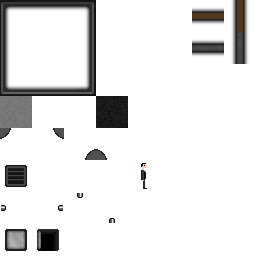
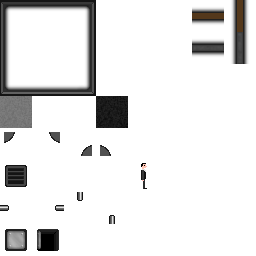
auto doors, entities moving around, entity texture is borked

diff --git a/LD25/src/com/mutantamoeba/ld25/screens/GameScreen.java b/LD25/src/com/mutantamoeba/ld25/screens/GameScreen.java
@@ -8,7 +8,7 @@ import com.badlogic.gdx.graphics.OrthographicCamera;
 import com.badlogic.gdx.graphics.Texture;
 import com.badlogic.gdx.graphics.Texture.TextureFilter;
 import com.badlogic.gdx.graphics.Texture.TextureWrap;
-import com.badlogic.gdx.graphics.g2d.SpriteBatch;
+import com.badlogic.gdx.graphics.g2d.TextureRegion;
 import com.badlogic.gdx.math.Vector2;
 import com.badlogic.gdx.scenes.scene2d.Actor;
 import com.badlogic.gdx.scenes.scene2d.InputEvent;
@@ -19,7 +19,7 @@ import com.mutantamoeba.ld25.GameWorld;
 import com.mutantamoeba.ld25.RoomRenderer;
 import com.mutantamoeba.ld25.actors.EntityGroup;
 import com.mutantamoeba.ld25.actors.FpsCounter;
-import com.mutantamoeba.ld25.engine.Console;
+import com.mutantamoeba.ld25.actors.GameEntity;
 import com.mutantamoeba.ld25.tilemap.GameTileset;
 import com.mutantamoeba.ld25.tilemap.TileRenderer;
 import com.mutantamoeba.ld25.tilemap.TileSubset;
@@ -31,7 +31,7 @@ public class GameScreen extends BasicScreen {
 	static final float SCROLL_SPEED = 200f; // pixels per second
 	static final float SCROLL_FAST_MULTIPLIER = 3f; // how much faster than SCROLL_SPEED do we go in fast mode?
 	
-	Texture texture;
+	public Texture texture;
 	boolean showFPS = true;
 	Stage uiStage;
 	GameWorld world;
@@ -72,13 +72,18 @@ public class GameScreen extends BasicScreen {
 			 */
 			@Override
 			public void clicked(InputEvent event, float x, float y) {				
-				x /= TILE_SIZE * GameWorld.ROOM_SIZE;
-				y /= TILE_SIZE * GameWorld.ROOM_SIZE;
+				float rx = x / (TILE_SIZE * GameWorld.ROOM_SIZE);
+				float ry = y / (TILE_SIZE * GameWorld.ROOM_SIZE);
 //				Console.debug("roomRenderer touched at %f, %f", x, y);
 
 //				world.roomMap.makeBlankRoom((int)x, (int)y);
-				world.roomMap.makeTemplatedRoom((int)x, (int)y);				
-				tileRenderer.updateFromMap();
+				if (world.roomMap.get((int)rx, (int)ry) == null) {
+					world.roomMap.makeTemplatedRoom((int)rx, (int)ry);				
+					tileRenderer.updateFromMap();
+				} else {
+					spawnActor(x, y);
+				}
+				
 				super.clicked(event, x, y);
 			}			
 		});
@@ -100,25 +105,25 @@ public class GameScreen extends BasicScreen {
 		});
 		stage.addActor(roomRenderer);
 		
-		this.entities = new EntityGroup();
+		this.entities = new EntityGroup(world);
+//		this.entities.set
+		
 		stage.addActor(this.entities);
-		this.entities.addActor(new Actor() {
-
-			/* (non-Javadoc)
-			 * @see com.badlogic.gdx.scenes.scene2d.Actor#draw(com.badlogic.gdx.graphics.g2d.SpriteBatch, float)
-			 */
-			@Override
-			public void draw(SpriteBatch batch, float parentAlpha) {
-				batch.draw(texture, getX(), getY(), 64, 64, 16, 16, 32, 32, false, false);
-//				super.draw(batch, parentAlpha);
-			}
-			
-		});
+		spawnActor(100, 100);
 
 		OrthographicCamera cam = (OrthographicCamera)stage.getCamera();
 		cam.translate(stage.getWidth() / 2, stage.getHeight() / 2);
+		
 	}
-
+	public void spawnActor(float x, float y) {
+		// [@temp just adds an entity for now]
+		TextureRegion region = new TextureRegion(texture, 0, 0, 32, 32);
+		Actor actor = new GameEntity(region);	
+		actor.setBounds(x, y, 32, 32);
+		actor.setOrigin(16, 16);
+		entities.addActor(actor);		
+	}
+	
 	/* (non-Javadoc)
 	 * @see com.mutantamoeba.ld25.screens.BasicScreen#render(float)
 	 */
@@ -128,7 +133,7 @@ public class GameScreen extends BasicScreen {
 		Gdx.gl.glClear(GL10.GL_COLOR_BUFFER_BIT);
 		
 		update(delta);
-		
+				
 		stage.draw();			
 		uiStage.draw();		
 	}

diff --git a/LD25/src/com/mutantamoeba/ld25/RoomMap.java b/LD25/src/com/mutantamoeba/ld25/RoomMap.java
@@ -1,5 +1,6 @@
 package com.mutantamoeba.ld25;
 
+import com.mutantamoeba.ld25.engine.Console;
 import com.mutantamoeba.ld25.tilemap.Tile;
 import com.mutantamoeba.ld25.utils.ParameterMap;
 import com.mutantamoeba.ld25.utils.RandomNumbers;
@@ -86,8 +87,8 @@ public class RoomMap extends ParameterMap<Room> {
 		if (r != null) {
 			return r;
 		}
-		r = new Room();
-		set(x, y, r);
+		r = new Room(x, y);
+		super.set(x, y, r);
 		int floorId = this.world.gameScreen.gameTiles.getId("floor");
 		int wallId = this.world.gameScreen.gameTiles.getId("wall");
 		int wallIndices[] = this.world.gameScreen.gameTiles.getTileIndices(wallId);
@@ -100,7 +101,7 @@ public class RoomMap extends ParameterMap<Room> {
 			
 			for (int xx = 0; xx < GameWorld.ROOM_SIZE; xx++, offs++) {
 				Tile tile = new Tile();
-				tile.layers[0] = this.world.gameScreen.gameTiles.getTileIndex(xx, yy, floorId);
+				tile.layers[Tile.FLOOR_LAYER] = this.world.gameScreen.gameTiles.getTileIndex(xx, yy, floorId);
 				boolean left = xx == 0;
 				boolean right = xx == GameWorld.ROOM_SIZE-1;
 				if (left || right || top || bottom) {
@@ -128,14 +129,67 @@ public class RoomMap extends ParameterMap<Room> {
 						index = 7;
 					}
 //					Console.debug("creating wall tileIndex:%d %s %s %s %s", index, left ? "left":"", right ? "right":"", top ? "top":"", bottom ? "bottom":"");
-					tile.layers[1] = wallIndices[index];
+					tile.layers[Tile.WALL_LAYER] = wallIndices[index];
 				}
 				if (objects != null && objects[offs] != -1) {
-					tile.layers[2] = objects[offs];
+					tile.layers[Tile.HAZARD_LAYER] = objects[offs];
 				}
 				world.tileMap.set(tileX + xx, tileY + yy, tile);
 			}
 		}
+		updateDoors(x, y);
 		return r;
+	}
+	/* (non-Javadoc)
+	 * @see com.mutantamoeba.ld25.utils.ParameterMap#set(int, int, java.lang.Object)
+	 */
+	@Override
+	public void set(int x, int y, Room v) {		
+		super.set(x, y, v);
+		updateDoors(x, y);
+	}
+	
+	public void setRoomTile(Room r, int rx, int ry, int layer, int tileIdx) {
+		int tileX = r.mapX * GameWorld.ROOM_SIZE + rx;
+		int tileY = r.mapY * GameWorld.ROOM_SIZE + ry;
+		Tile tile = world.tileMap.get(tileX, tileY);
+		if (tile == null) return;
+		tile.layers[layer] = tileIdx;
+	}
+	
+	private void updateDoors(int x, int y) {
+		Console.debug("updateDoors(%d, %d)", x, y);
+		Room me = get(x, y);
+		Console.debug("  room: %s", me);
+		if (me == null) return;
+		Room left = get(x-1, y);
+		Room right = get(x+1, y);
+		Room up = get(x, y-1);
+		Room down = get(x, y+1);
+		me.up = up;
+		me.down = down;
+		me.left = left;
+		me.right = right;
+		
+		// the second line in each of these assignments looks weird because it's defined
+		// in terms of the target room ("me") just for clarity of reading 
+		// (one might argue that if it was so clear, no explanation would be needed)
+		if (up != null) {
+			setRoomTile(me, 2, 0, Tile.WALL_LAYER, -1);
+			setRoomTile(me, 2, -1, Tile.WALL_LAYER, -1);
+		}
+		if (down != null) {
+			setRoomTile(me, 2, 4, Tile.WALL_LAYER, -1);
+			setRoomTile(me, 2, 5, Tile.WALL_LAYER, -1);
+		}
+		if (left != null) {
+			setRoomTile(me, 0, 2, Tile.WALL_LAYER, -1);
+			setRoomTile(me, -1, 2, Tile.WALL_LAYER, -1);
+		}
+		if (right != null) {
+			setRoomTile(me, 4, 2, Tile.WALL_LAYER, -1);
+			setRoomTile(me, 5, 2, Tile.WALL_LAYER, -1);
+		}
+	
 	}
 }

diff --git a/LD25/src/com/mutantamoeba/ld25/Room.java b/LD25/src/com/mutantamoeba/ld25/Room.java
@@ -1,5 +1,21 @@
 package com.mutantamoeba.ld25;
 
 public class Room {
-
+	int mapX, mapY;
+	Room up, down, left, right;
+	public Room(int mapX, int mapY) {
+		this.mapX = mapX;
+		this.mapY = mapY;		
+	}
+	public String toString() {
+		return String.format("%s {up:%s, down:%s, left:%s, right:%s}", Room.toString(this, false), Room.toString(up, false), Room.toString(down, false),
+				Room.toString(left, false), Room.toString(right, false));
+	}
+	public static String toString(Room room, boolean recurse) {
+		if (room == null) return "Room[null]";
+		if (recurse) {
+			return room.toString();
+		} 
+		return String.format("Room[%d, %d]", room.mapX, room.mapY);
+	}
 }

diff --git a/LD25/src/com/mutantamoeba/ld25/LD25.java b/LD25/src/com/mutantamoeba/ld25/LD25.java
@@ -6,7 +6,7 @@ import com.mutantamoeba.ld25.engine.Console;
 import com.mutantamoeba.ld25.screens.GameScreen;
 
 public class LD25 extends Game {
-	public static final boolean DEBUG_MODE = false;
+	public static final boolean DEBUG_MODE = true;
 	public static final String VERSION = "0.0.1";
 	public static final String LOG = "LD25: ";
 			
